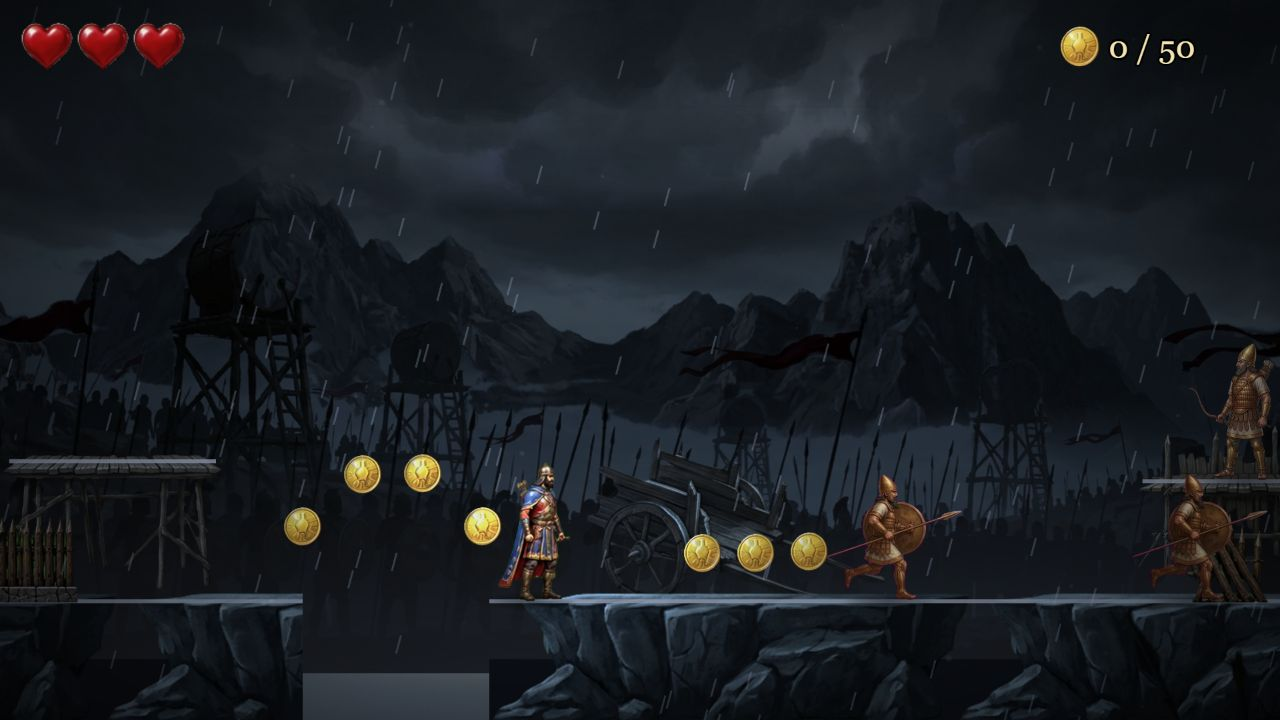
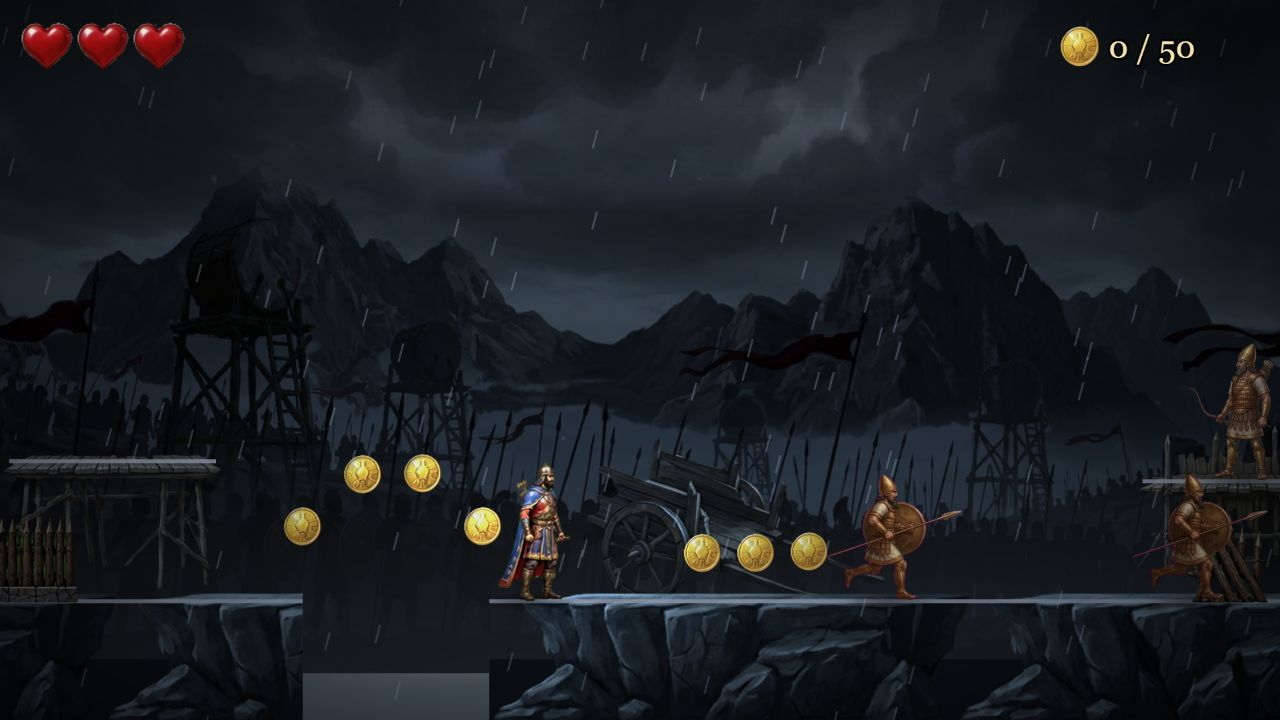
Ходьба с натянутым луком: шов по краю юбки, ноги без чужих рук и плаща; на уровне 3 под платформами земляные уступы до земли

diff --git a/src/scenes/Game.js b/src/scenes/Game.js
@@ -202,7 +202,7 @@ export default class Game extends Phaser.Scene {
   // Опоры под платформой, чтобы она не висела в воздухе: стена, столбы или скала от платформы до земли
   // (над ямой — до самого низа). Это только украшение, герой проходит перед ними.
   addSupport(p, a, src) {
-    const sup = this.art.support;
+    const sup = (a.support && this.art.supports && this.art.supports[a.support]) || this.art.support;
     const top = p.y + src.height * (p.w / src.width) * (1 - a.top) * (sup.under ?? 1) - 8;
     const f = p.crumble ? (sup.width ?? 0.8) * 0.7 : sup.width ?? 0.8;
     const cols = a.legs ? [[p.x + p.w * 0.02, p.w * 0.26], [p.x + p.w * 0.72, p.w * 0.26]] : [[p.x + (p.w * (1 - f)) / 2, p.w * f]];
@@ -213,7 +213,14 @@ export default class Game extends Phaser.Scene {
       const ground = this.level.ground.find((s) => mid >= s.x && mid <= s.x + s.w);
       const bottom = ground ? ground.y + 12 : BOTTOM;
       if (bottom - top < 10) continue;
-      if (sup.mode === 'stack') {
+      if (sup.mode === 'earth') {
+        // земляной уступ: грунт из картинки земли (без травы) повторяется до самой земли —
+        // платформа выглядит верхушкой холма, а не висящим куском
+        const key = this.dirtTexture(sup);
+        this.add.tileSprite(x, top, w, bottom - top, key).setOrigin(0).setDepth(14).setTint(tint).setTileScale((p.w / src.width) * 1.4);
+        // тень у верха уступа — под нависающим краем платформы
+        this.add.rectangle(x, top, w, 40, 0x000000, 0.25).setOrigin(0).setDepth(14.5);
+      } else if (sup.mode === 'stack') {
         // скала: куски камня один под другим внахлёст
         const sx = w / img.width;
         const sy = sx * (sup.stretch ?? 1);
@@ -226,6 +233,22 @@ export default class Game extends Phaser.Scene {
         this.add.tileSprite(x, top, w, bottom - top, sup.tex).setOrigin(0).setDepth(14).setTint(tint).setTileScale(w / img.width);
       }
     }
+  }
+
+  // картинка «чистого грунта»: средняя часть картинки земли, без травы сверху и без краёв
+  dirtTexture(sup) {
+    const key = sup.tex + '-dirt';
+    if (this.textures.exists(key)) return key;
+    const img = this.textures.get(sup.tex).getSourceImage();
+    const [y0, y1] = sup.rows ?? [0.45, 0.85];
+    const sx = Math.round(img.width * 0.06);
+    const sy = Math.round(img.height * y0);
+    const w = img.width - sx * 2;
+    const h = Math.round(img.height * (y1 - y0));
+    const t = this.textures.createCanvas(key, w, h);
+    t.getContext().drawImage(img, sx, sy, w, h, 0, 0, w, h);
+    t.refresh();
+    return key;
   }
 
   // трещины на плите, которая обвалится, — чтобы игрок видел её заранее

diff --git a/src/entities/Player.js b/src/entities/Player.js
@@ -2,8 +2,11 @@ import Phaser from 'phaser';
 import { PLAYER, BOW, BLOOD } from '../config.js';
 
 const FEET_Y = 188; // линия ног в кадре 200×196
-const WAIST_Y = 116; // линия пояса в кадре: выше — торс, ниже — ноги
-const LEGS_SHIFT = 20; // на сколько сдвинуть бегущие ноги вперёд, чтобы они встали под торс с луком
+// Склейка «торс с луком + шагающие ноги». Шов — по нижнему краю юбки: выше берётся кадр выстрела
+// (с плащом и юбкой), ниже — только голени и сапоги из кадров бега. Если резать выше, к луку
+// приклеиваются чужие руки, кусок плаща и юбки — так и было раньше.
+const TORSO_Y = 156; // торс из кадра выстрела рисуется до этой строки кадра
+const LEGS_Y = 153; // ноги из кадров бега — от этой строки (чуть внахлёст, шов прячется под юбкой)
 
 function toward(v, target, step) {
   if (v < target) return Math.min(v + step, target);
@@ -42,7 +45,7 @@ export default class Player extends Phaser.Physics.Arcade.Sprite {
     // Отдельные «ноги»: когда герой идёт с натянутым луком, верх тела берётся из кадра выстрела,
     // а низ — из анимации бега (кадров «ходьба с натянутым луком» на ленте нет).
     this.legs = scene.add.sprite(x, y, 'hayk', 1).setOrigin(0.5, FEET_Y / 196).setScale(PLAYER.scale).setDepth(49.9).setVisible(false);
-    this.legs.setCrop(0, WAIST_Y, 200, 196 - WAIST_Y);
+    this.legs.setCrop(0, LEGS_Y, 200, 196 - LEGS_Y);
     this.bar = scene.add.graphics().setDepth(60); // полоска заряда
   }
 
@@ -114,10 +117,10 @@ export default class Player extends Phaser.Physics.Arcade.Sprite {
     const aimWalk = !!this.chargeStart && onGround && Math.abs(vx) > 40;
     if (aimWalk) {
       // торс с луком + бегущие ноги
-      this.setCrop(0, 0, 200, WAIST_Y);
-      // в кадрах бега таз сдвинут назад относительно кадра выстрела — подвигаем ноги под торс
-      this.legs.setVisible(true).setPosition(this.x + this.facing * LEGS_SHIFT, this.y).setFlipX(this.facing < 0);
-      this.legs.anims.play('hayk-run', true);
+      this.setCrop(0, 0, 200, TORSO_Y);
+      // ноги в кадрах бега стоят там же по ширине, что и в кадре выстрела, — сдвиг не нужен
+      this.legs.setVisible(true).setPosition(this.x, this.y).setFlipX(this.facing < 0);
+      this.legs.anims.play('hayk-aimwalk', true);
       if (time > this.stepAt) {
         this.stepAt = time + 290;
         if (sfx) sfx.play('step', this.surface());

diff --git a/src/atmosphere/index.js b/src/atmosphere/index.js
@@ -145,16 +145,18 @@ export const ATMOSPHERE = {
     light: { ambient: 0xf2f2f2, sun: { x: -500, y: -400, radius: 3600, color: 0xfff0d0, intensity: 0.45 } },
     art: {
       propTint: 0xd4d2be,
-      // под каждой платформой — опора из каменной кладки
-      support: { tex: 'a-pt-10', mode: 'stack', stretch: 1.3, width: 0.62, under: 0.6, tint: 0xb4b0a0 },
+      // под земляными платформами — земляной уступ до земли (mode: 'earth', грунт из картинки земли),
+      // под каменными (support: 'stone') — столб из каменной кладки
+      support: { tex: 'a-pt-01', mode: 'earth', width: 0.9, under: 0.5, tint: 0xb8a898 },
+      supports: { stone: { tex: 'a-pt-10', mode: 'stack', stretch: 1.3, width: 0.62, under: 0.6, tint: 0xb4b0a0 } },
       ground: { tex: 'a-pt-01', top: 0.13, scale: 1.5, fill: 0x5b3722, overlap: 0.08 },
       plats: {
         p4: { tex: 'a-pt-04', top: 0.13 },
         p5: { tex: 'a-pt-05', top: 0.13 },
         p8: { tex: 'a-pt-08', top: 0.13 },
         p12: { tex: 'a-pt-12', top: 0.13 },
-        s11: { tex: 'a-pt-11', top: 0.1, surface: 'stone' },
-        r2: { tex: 'a-pt-02', top: 0.08, surface: 'stone' },
+        s11: { tex: 'a-pt-11', top: 0.1, surface: 'stone', support: 'stone' },
+        r2: { tex: 'a-pt-02', top: 0.08, surface: 'stone', support: 'stone' },
         arch: { tex: 'a-arch', top: 0.16, surface: 'stone', noSupport: true },
         bridge: { tex: 'a-bridge', top: 0.5, inset: 0.06, surface: 'stone', noSupport: true },
       },

diff --git a/src/scenes/Boot.js b/src/scenes/Boot.js
@@ -31,6 +31,8 @@ export default class Boot extends Phaser.Scene {
     buildSheets(this);
     this.game.sfx = new Sfx(this.game);
     this.anims.create({ key: 'hayk-run', frames: this.anims.generateFrameNumbers('hayk', { frames: [1, 2, 3, 4, 5, 6, 7, 9, 10] }), frameRate: 14, repeat: -1 });
+    // шаги с натянутым луком: только кадры бега, где обе ноги видны (без прыжковых), ноги отсюда клеятся под торс
+    this.anims.create({ key: 'hayk-aimwalk', frames: this.anims.generateFrameNumbers('hayk', { frames: [1, 2, 5, 6, 9, 10] }), frameRate: 10, repeat: -1 });
 
     if (PARAMS.scene && this.scene.get(PARAMS.scene)) this.scene.start(PARAMS.scene, { i: PARAMS.i });
     else if (PARAMS.level !== null) this.scene.start('Game', { level: PARAMS.level, cp: PARAMS.cp ? PARAMS.cp - 1 : -1 });

diff --git a/CLAUDE.md b/CLAUDE.md
@@ -95,10 +95,10 @@
 - Три языка: русский, английский, армянский. Все тексты лежат в `src/i18n.js`. При первом запуске показывается экран выбора языка (`src/scenes/Lang.js`), потом язык меняется в «Настройках» меню. Новый текст добавлять сразу во все три языка
 - Сохранение: «Начать игру» сбрасывает прогресс на уровень 1, «Продолжить» ведёт на уровень, где игрок остановился; запуск по адресу `?level=N` прогресс не меняет
 - Кровь при попаданиях и ранениях — частицы, количество в `BLOOD` (`src/config.js`, 0 — выключить)
-- Когда Айк идёт с натянутым луком, картинка склеивается из двух: торс из кадра выстрела и ноги из бега (`Player.legs`). Нужны настоящие кадры «ходьба с натянутым луком»
+- Когда Айк идёт с натянутым луком, картинка склеивается из двух: всё выше края юбки — из кадра выстрела, голени и сапоги — из кадров бега (`Player.legs`, анимация `hayk-aimwalk`; шов — `TORSO_Y`/`LEGS_Y` в `Player.js`). Нужны настоящие кадры «ходьба с натянутым луком»
 - На уровне 4 по верху земли и платформ идёт светлая кромка (`edge`), фон затемнён — чтобы платформы читались
 - Чекпоинты невидимы (флажков нет): место просто запоминается, когда герой проходит мимо
-- Под каждой платформой на всех уровнях кодом рисуется опора до земли, чтобы платформы не висели в воздухе (`support` в `src/atmosphere/index.js`): в Вавилоне — кирпичная стена или столбы, на уровнях 2 и 4 — скальный столб, на уровне 3 — каменная кладка. Деревянные помосты, арка и верёвочный мост стоят без опор
+- Под каждой платформой на всех уровнях кодом рисуется опора до земли, чтобы платформы не висели в воздухе (`support` в `src/atmosphere/index.js`): в Вавилоне — кирпичная стена или столбы, на уровнях 2 и 4 — скальный столб, на уровне 3 — земляной уступ из того же грунта, что и земля (`mode: 'earth'`), а под каменными платформами — каменная кладка. Деревянные помосты, арка и верёвочный мост стоят без опор
 - Лучник берётся из листа `public/assets/enemies/archer-shoot.webp` (4 кадра: лук опущен, поднимает, натянул, выпустил стрелу). Старая заготовка — `spearman.png` с луком, нарисованным кодом (`Boot.makeArcher`) — осталась как запасная
 - Временный звук, собранный кодом (`src/audio/Sfx.js`); настоящая музыка есть только в меню
 
